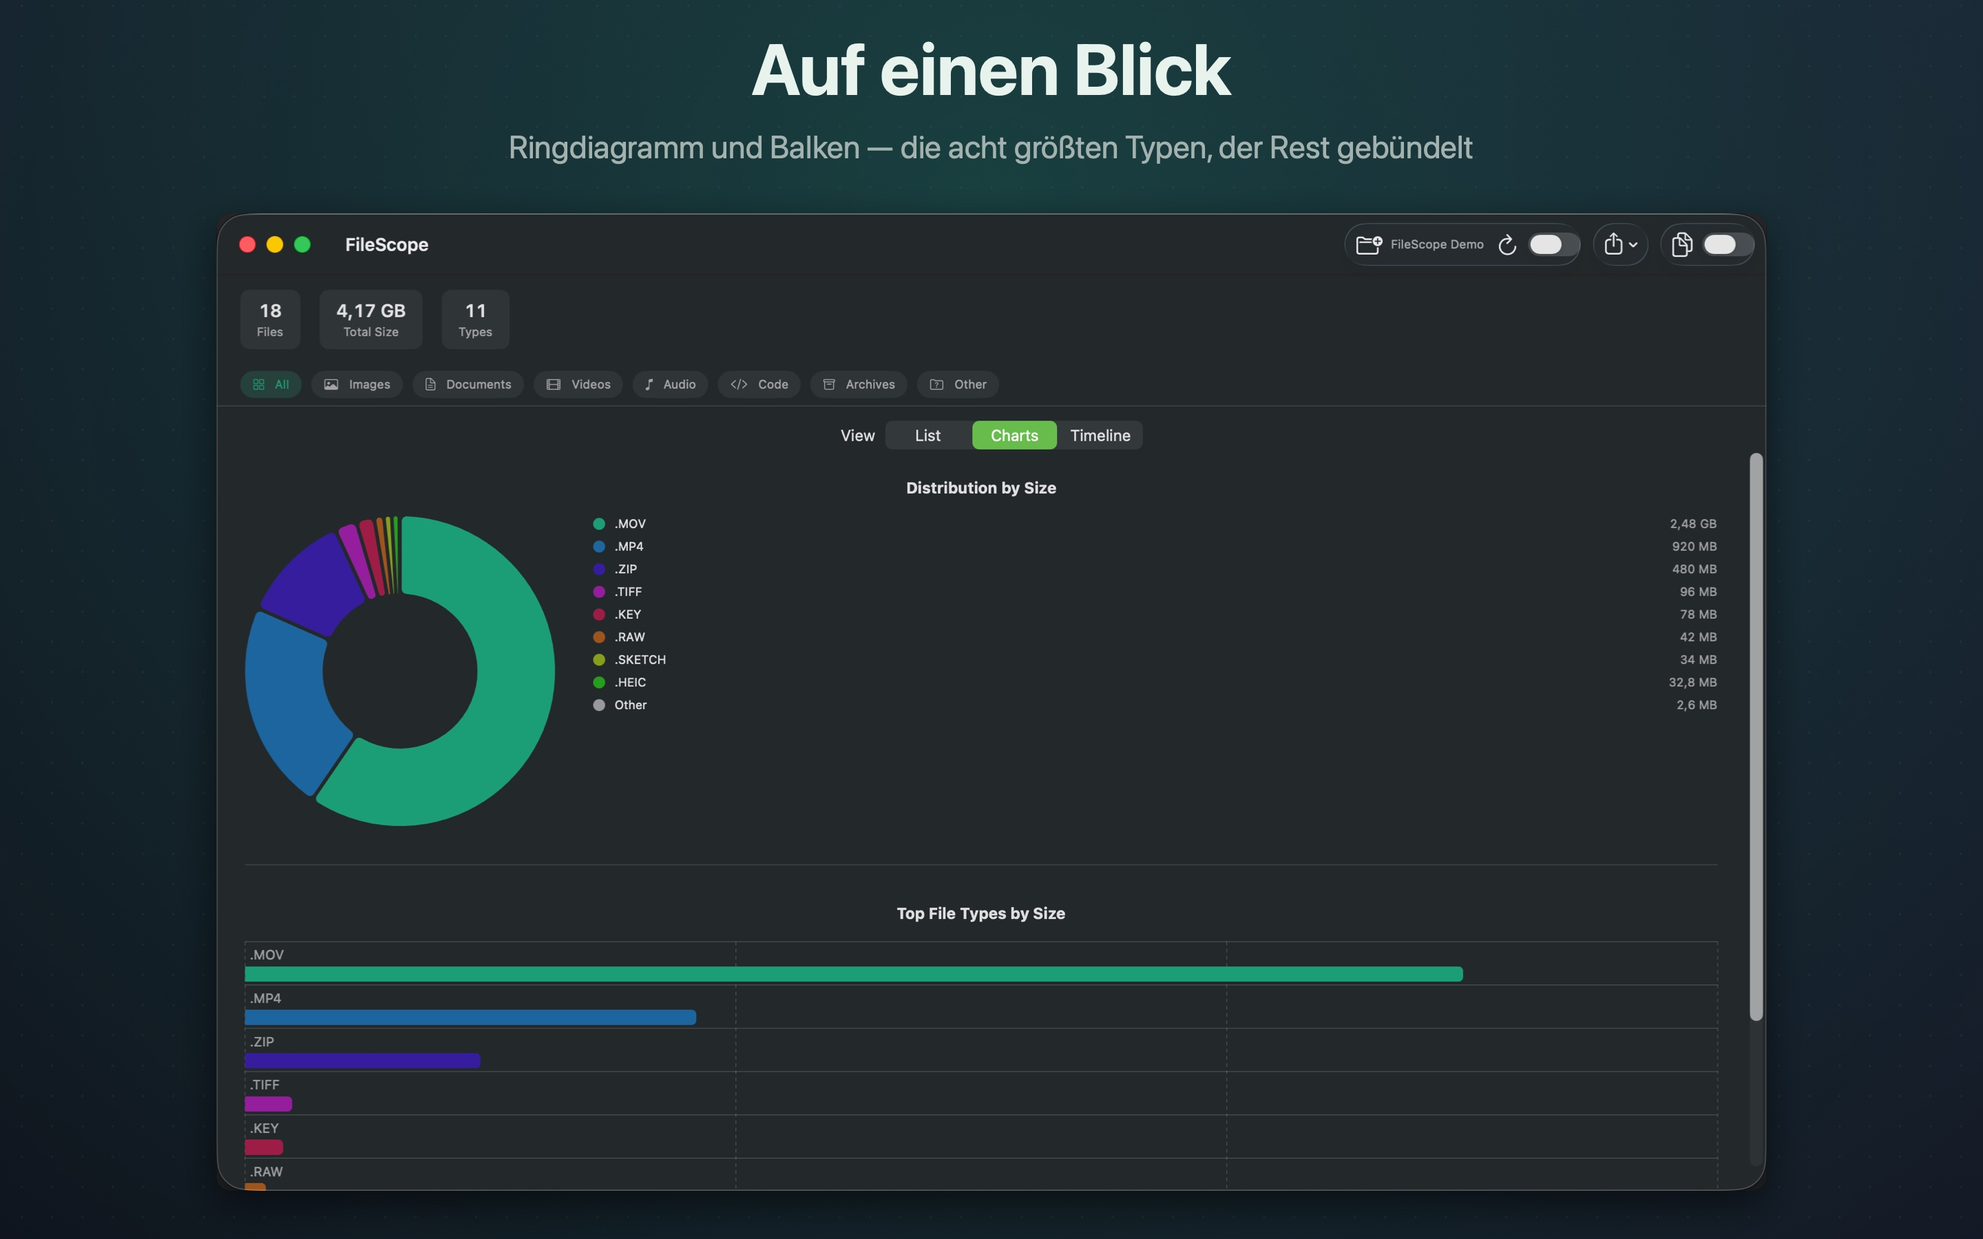
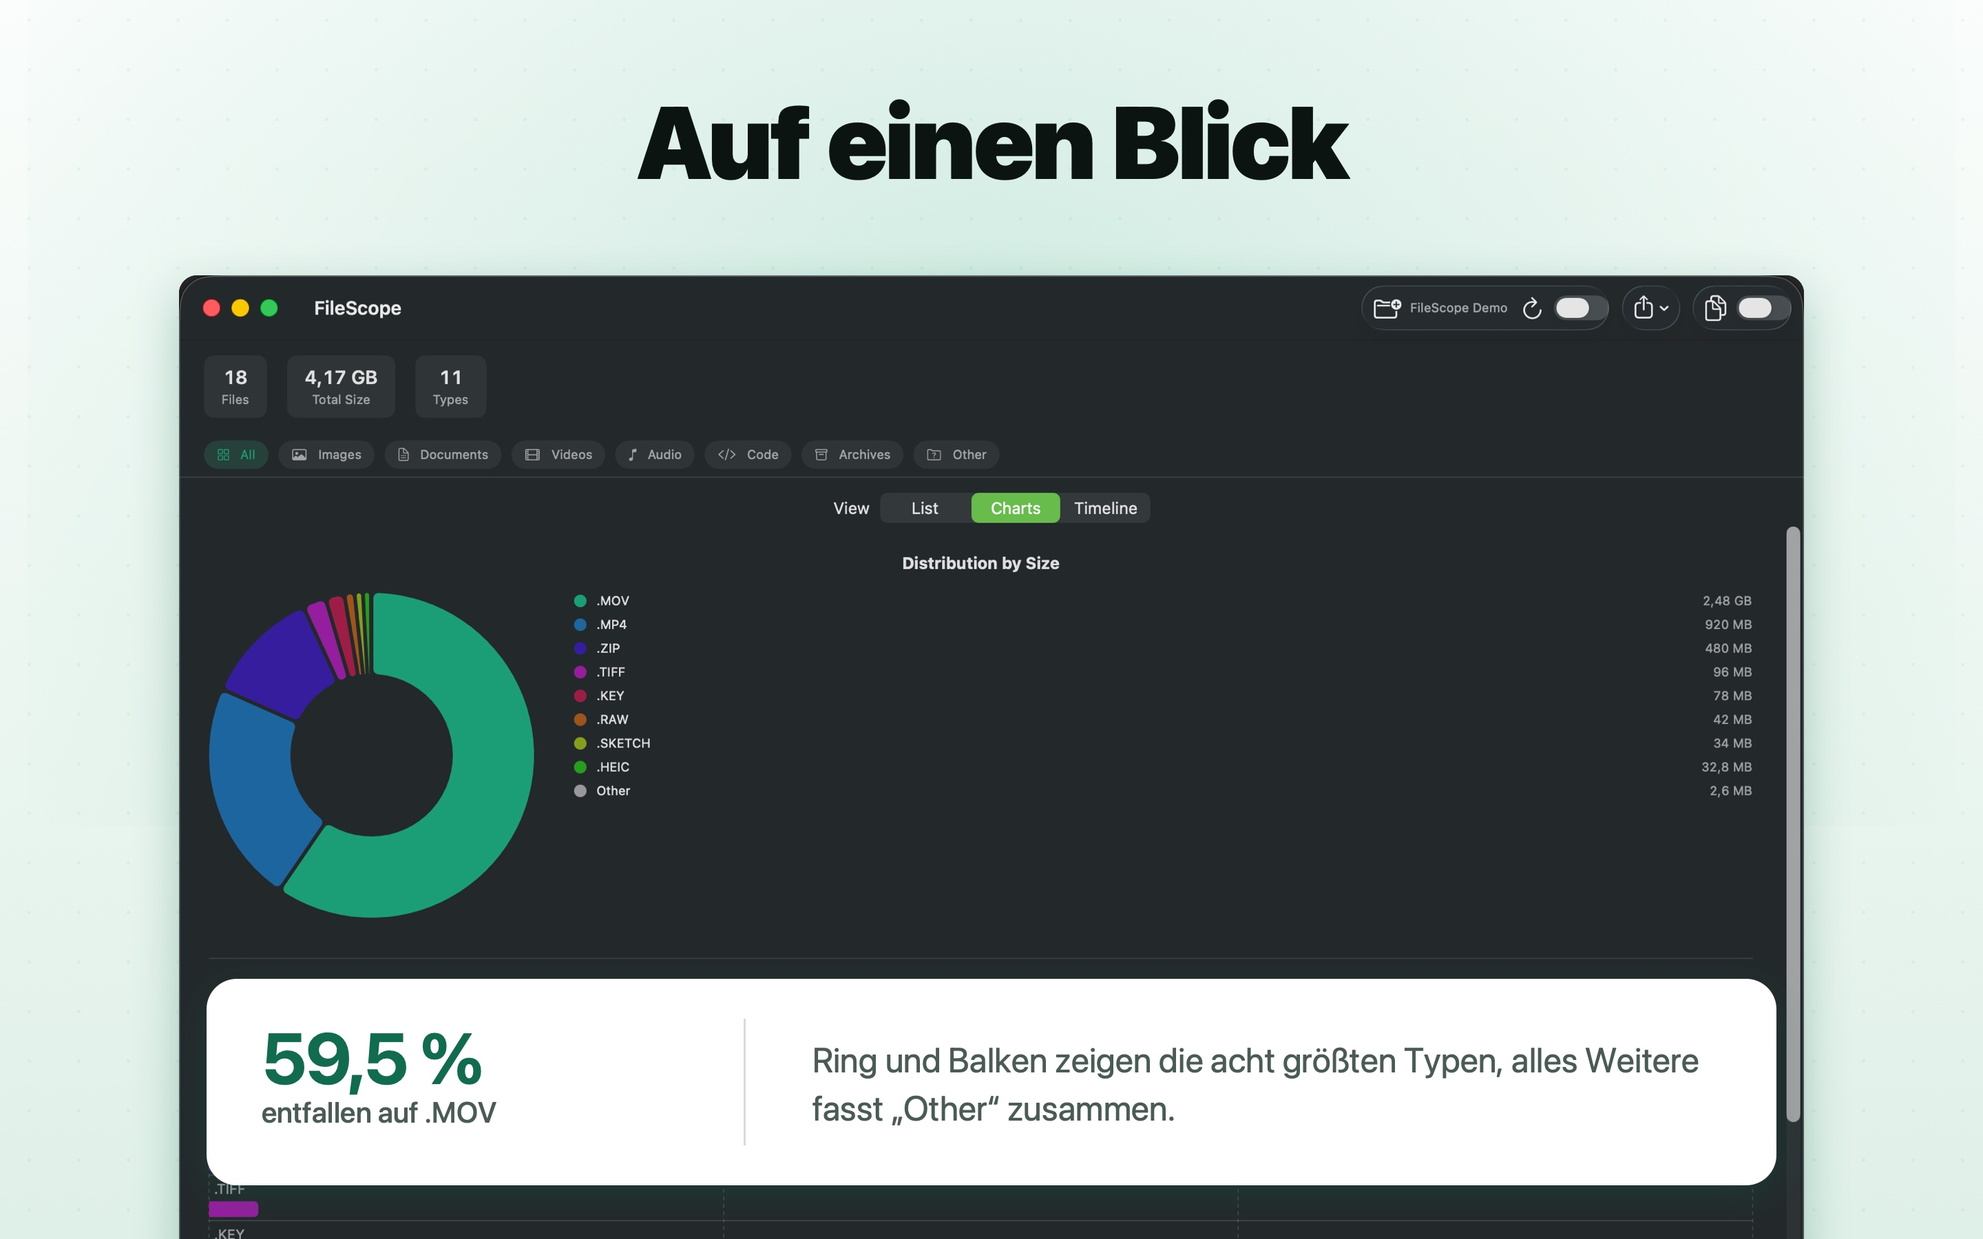
Rebuild the store screenshots in the layout the reference uses
The reference the design was compared against does three things: a light ground, a
headline large enough to read in the second before scrolling on, and the window pushed
off the bottom edge with one UI figure lifted in front of it. Copied that structure.

What changed concretely: dark canvas → light with a hint of the brand colour, headline
grown to 148pt black, subline moved off the background and into a card that overlaps the
window, and the window itself enlarged past the bottom edge instead of floating inside
the frame with air around it.

The card carries the number that is actually on screen behind it — 4,17 GB, 59,5 %,
8,6 MB. Read off each capture, not invented. Changing the demo folder means changing
them in the script.

Two fixes along the way:

5-videos.png was a byte-for-byte copy of 4-duplikate.png. The category filter was never
captured, so the fifth slide showed the duplicate sheet twice — and that went out in
PR #5. Recaptured against a rebuilt demo folder: 3 files, 3,4 GB, 2 types.

The timeline slide had the card sitting on top of the histogram. A single-line headline
lifts the window ~140px and the bars now clear it, axis labels included.

diff --git a/scripts/GenerateStoreScreenshots.swift b/scripts/GenerateStoreScreenshots.swift
@@ -4,49 +4,66 @@
 //
 // Aufruf: swift scripts/GenerateStoreScreenshots.swift <ordner-mit-rohaufnahmen>
 //
-// Erwartet dort 1-liste.png … 5-videos.png, wie sie
-// scripts/capture-store-screenshots.sh erzeugt.
+// Erwartet dort 1-liste.png … 5-videos.png.
 //
-// Warum gestaltet und nicht nackt: Ein Store-Eintrag hat wenige Sekunden. Eine
-// Fensteraufnahme allein erklärt nichts — die Überschrift sagt, was man sieht,
-// bevor jemand die Zahlen liest.
+// Aufbau je Bild, von oben nach unten:
+//   1. sehr große fette Überschrift — die eine Aussage, in zwei Sekunden lesbar
+//   2. das Fenster, groß und unten angeschnitten, damit es nicht wie ein
+//      abgelegtes Foto wirkt, sondern wie ein Ausschnitt aus etwas Größerem
+//   3. eine Karte davor mit der Kennzahl, die im Fenster steht — sie fängt den
+//      Blick, bevor jemand die Tabelle liest
+//
+// Heller Grund mit einem Hauch der Markenfarbe: Die App zeigt sich im dunklen
+// Erscheinungsbild, und der Kontrast dazu trägt das Fenster.
 
 import AppKit
 
 let canvas = NSSize(width: 2880, height: 1800)
 
 // Mika+ Palette — Spiegel von Sources/MikaPlusColors.swift
-let darkBgDeep = NSColor(srgbRed: 0x0F/255.0, green: 0x0F/255.0, blue: 0x1A/255.0, alpha: 1)
-let darkBg     = NSColor(srgbRed: 0x1A/255.0, green: 0x1A/255.0, blue: 0x2E/255.0, alpha: 1)
-let teal       = NSColor(srgbRed: 0x1D/255.0, green: 0x9E/255.0, blue: 0x75/255.0, alpha: 1)
-let tealLight  = NSColor(srgbRed: 0x5D/255.0, green: 0xCA/255.0, blue: 0xA5/255.0, alpha: 1)
-let textPrim   = NSColor(srgbRed: 0xE8/255.0, green: 0xF3/255.0, blue: 0xEE/255.0, alpha: 1)
-let textMuted  = NSColor(srgbRed: 0xA3/255.0, green: 0xB2/255.0, blue: 0xAE/255.0, alpha: 1)
+let teal      = NSColor(srgbRed: 0x1D/255.0, green: 0x9E/255.0, blue: 0x75/255.0, alpha: 1)
+let tealTief  = NSColor(srgbRed: 0x11/255.0, green: 0x6B/255.0, blue: 0x4E/255.0, alpha: 1)
+let grundOben = NSColor(srgbRed: 0xFA/255.0, green: 0xFD/255.0, blue: 0xFB/255.0, alpha: 1)
+let grundUnten = NSColor(srgbRed: 0xDF/255.0, green: 0xF0/255.0, blue: 0xE8/255.0, alpha: 1)
+let tinte     = NSColor(srgbRed: 0x0B/255.0, green: 0x14/255.0, blue: 0x11/255.0, alpha: 1)
+let tinteMatt = NSColor(srgbRed: 0x4A/255.0, green: 0x5B/255.0, blue: 0x55/255.0, alpha: 1)
 
 struct Folie {
     let datei: String
-    let titel: String
-    let unterzeile: String
+    let titel: String       // die Aussage, groß und fett
+    let zahl: String        // die Kennzahl aus genau diesem Screenshot
+    let label: String       // was die Zahl bedeutet
+    let satz: String        // ein Satz Erklärung neben der Zahl
 }
 
-// Die Reihenfolge ist die im Store: erst die Frage, die das Produkt beantwortet,
-// dann die Bilder, dann das Kaufargument.
+// Reihenfolge im Store: erst die Frage, die das Produkt beantwortet, dann was es
+// zeigt, zuletzt das Argument zum Aufräumen.
 let folien = [
     Folie(datei: "1-liste",
-          titel: "Wo ist der Platz geblieben?",
-          unterzeile: "Jede Dateiendung mit Anzahl, Größe und Anteil am Ganzen"),
+          titel: "Wo ist der Platz\ngeblieben?",
+          zahl: "4,17 GB",
+          label: "in 18 Dateien",
+          satz: "Jede Dateiendung mit Anzahl, Größe und Anteil am Ganzen — sortierbar nach jeder Spalte."),
     Folie(datei: "2-diagramme",
           titel: "Auf einen Blick",
-          unterzeile: "Ringdiagramm und Balken — die acht größten Typen, der Rest gebündelt"),
+          zahl: "59,5 %",
+          label: "entfallen auf .MOV",
+          satz: "Ring und Balken zeigen die acht größten Typen, alles Weitere fasst „Other“ zusammen."),
     Folie(datei: "3-zeitachse",
-          titel: "Was liegt hier nur herum?",
-          unterzeile: "Verteilung nach Alter — getrennt nach Anzahl und nach Volumen"),
+          titel: "Was hier nur herumliegt",
+          zahl: "6",
+          label: "Altersstufen",
+          satz: "Von heute bis älter als ein Jahr — nach Anzahl und nach belegtem Platz getrennt."),
     Folie(datei: "4-duplikate",
           titel: "Doppelt gespeichert",
-          unterzeile: "SHA-256 findet, was wirklich gleich ist. Gelöscht wird nichts."),
+          zahl: "8,6 MB",
+          label: "wiedergewinnbar",
+          satz: "SHA-256 findet, was wirklich gleich ist. Gelöscht wird nichts — das bleibt Ihre Sache."),
     Folie(datei: "5-videos",
           titel: "Nur das, was zählt",
-          unterzeile: "Sieben Kategorien — Tabelle, Diagramme und Export folgen der Auswahl"),
+          zahl: "3,4 GB",
+          label: "in 3 Videodateien",
+          satz: "Sieben Kategorien engen die Ansicht ein — Tabelle, Diagramme und Export folgen mit."),
 ]
 
 let args = CommandLine.arguments
@@ -59,20 +76,37 @@ let projekt = FileManager.default.currentDirectoryPath
 let ziel = "\(projekt)/store/screenshots"
 try? FileManager.default.createDirectory(atPath: ziel, withIntermediateDirectories: true)
 
-func schrift(_ groesse: CGFloat, _ gewicht: NSFont.Weight) -> NSFont {
-    NSFont.systemFont(ofSize: groesse, weight: gewicht)
+/// Zeichnet Text in eine Box fester Breite und meldet die belegte Höhe zurück.
+/// `obenBei` ist die Oberkante — bei AppKit-Koordinaten muss von dort nach unten
+/// gerechnet werden, sonst hängt mehrzeiliger Text am falschen Ende fest.
+@discardableResult
+func zeichne(_ text: String, schrift: NSFont, farbe: NSColor,
+             breite: CGFloat, x: CGFloat, obenBei y: CGFloat,
+             zeilen: CGFloat = 1.0, ausrichtung: NSTextAlignment = .center,
+             kerning: CGFloat = 0) -> CGFloat {
+    let stil = NSMutableParagraphStyle()
+    stil.alignment = ausrichtung
+    stil.lineHeightMultiple = zeilen
+    let s = NSAttributedString(string: text, attributes: [
+        .font: schrift, .foregroundColor: farbe,
+        .paragraphStyle: stil, .kern: kerning,
+    ])
+    let mass = s.boundingRect(with: NSSize(width: breite, height: .greatestFiniteMagnitude),
+                              options: [.usesLineFragmentOrigin])
+    s.draw(with: NSRect(x: x, y: y - mass.height, width: breite, height: mass.height),
+           options: [.usesLineFragmentOrigin])
+    return mass.height
 }
 
 for folie in folien {
     let pfad = "\(quelle)/\(folie.datei).png"
     guard let aufnahme = NSImage(contentsOfFile: pfad) else {
-        print("  ! fehlt: \(pfad)")
+        print("  ✗ fehlt: \(pfad)")
         continue
     }
 
-    // In eine Bitmap mit festen Pixelmaßen zeichnen, nicht über NSImage.lockFocus():
-    // Auf einem Retina-Bildschirm verdoppelt lockFocus die Auflösung, und aus 2880×1800
-    // werden 5760×3600. Der Store lehnt solche Bilder ab.
+    // Feste Pixelmaße statt NSImage.lockFocus(): Letzteres verdoppelt auf einem
+    // Retina-Display die Auflösung, und der Store weist 5760×3600 zurück.
     guard let rep = NSBitmapImageRep(
         bitmapDataPlanes: nil,
         pixelsWide: Int(canvas.width), pixelsHigh: Int(canvas.height),
@@ -84,86 +118,114 @@ for folie in folien {
     NSGraphicsContext.saveGraphicsState()
     NSGraphicsContext.current = NSGraphicsContext(bitmapImageRep: rep)
 
-    // Hintergrund: derselbe Verlauf wie auf der Website und im OG-Bild
-    NSGradient(starting: darkBgDeep, ending: darkBg)!
-        .draw(in: NSRect(origin: .zero, size: canvas), angle: 65)
+    let alles = NSRect(origin: .zero, size: canvas)
 
-    // Teal-Schein hinter der Überschrift. Der Verlauf reicht weit über den Rand
-    // hinaus, damit seine eigene Kante nie als Naht sichtbar wird.
-    let schein = NSGradient(colors: [teal.withAlphaComponent(0.30), teal.withAlphaComponent(0)])!
-    let scheinGroesse: CGFloat = 3400
-    schein.draw(in: NSRect(x: canvas.width/2 - scheinGroesse/2,
-                           y: canvas.height - 300 - scheinGroesse/2,
-                           width: scheinGroesse, height: scheinGroesse),
-                relativeCenterPosition: .zero)
+    // --- Grund ------------------------------------------------------------
+    NSGradient(colors: [grundOben, grundUnten])?.draw(in: alles, angle: -90)
 
-    // Punktraster, wie im App-Symbol
-    tealLight.withAlphaComponent(0.07).setFill()
-    for x in stride(from: 30.0, to: canvas.width, by: 44) {
-        for y in stride(from: 30.0, to: canvas.height, by: 44) {
-            NSBezierPath(ovalIn: NSRect(x: x, y: y, width: 3.5, height: 3.5)).fill()
+    // Ein weicher Schein in Markenfarbe hinter der Überschrift, damit die obere
+    // Bildhälfte nicht leer wirkt.
+    NSGraphicsContext.current?.saveGraphicsState()
+    let schein = NSGradient(colors: [teal.withAlphaComponent(0.16), teal.withAlphaComponent(0)])
+    schein?.draw(in: NSRect(x: canvas.width/2 - 1400, y: canvas.height - 1200,
+                            width: 2800, height: 1400), relativeCenterPosition: .zero)
+    NSGraphicsContext.current?.restoreGraphicsState()
+
+    // Feines Punktraster, sehr blass — gibt der Fläche Struktur ohne Ablenkung.
+    teal.withAlphaComponent(0.07).setFill()
+    var py: CGFloat = 40
+    while py < canvas.height {
+        var px: CGFloat = 40
+        while px < canvas.width {
+            NSBezierPath(ovalIn: NSRect(x: px, y: py, width: 5, height: 5)).fill()
+            px += 72
         }
+        py += 72
     }
 
-    // Überschrift
-    let titelAttr: [NSAttributedString.Key: Any] = [
-        .font: schrift(104, .bold),
-        .foregroundColor: textPrim,
-    ]
-    let titelGroesse = folie.titel.size(withAttributes: titelAttr)
-    folie.titel.draw(at: NSPoint(x: (canvas.width - titelGroesse.width)/2, y: canvas.height - 160),
-                     withAttributes: titelAttr)
+    // --- Überschrift ------------------------------------------------------
+    let titelOben = canvas.height - 130
+    let titelHoehe = zeichne(folie.titel,
+            schrift: .systemFont(ofSize: 148, weight: .black), farbe: tinte,
+            breite: 2400, x: canvas.width/2 - 1200, obenBei: titelOben,
+            zeilen: 0.92, kerning: -3)
 
-    // Unterzeile
-    let unterAttr: [NSAttributedString.Key: Any] = [
-        .font: schrift(46, .regular),
-        .foregroundColor: textMuted,
-    ]
-    let unterGroesse = folie.unterzeile.size(withAttributes: unterAttr)
-    folie.unterzeile.draw(at: NSPoint(x: (canvas.width - unterGroesse.width)/2, y: canvas.height - 240),
-                          withAttributes: unterAttr)
+    // --- Fenster ----------------------------------------------------------
+    // Unten angeschnitten: Das Bild endet nicht mit dem Fenster, es geht weiter.
+    let quellMass = aufnahme.size
+    let fensterBreite: CGFloat = 2360
+    let fensterHoehe = fensterBreite * quellMass.height / quellMass.width
+    // Direkt unter der Überschrift ansetzen: Eine dreizeilige Zeile schiebt das
+    // Fenster nach unten, eine einzeilige zieht es hoch — der Abstand bleibt gleich.
+    let fensterOben = titelOben - titelHoehe - 110
+    let fenster = NSRect(x: (canvas.width - fensterBreite)/2,
+                         y: fensterOben - fensterHoehe,
+                         width: fensterBreite, height: fensterHoehe)
+    let rahmen = NSBezierPath(roundedRect: fenster, xRadius: 26, yRadius: 26)
 
-    // Die Fensteraufnahme: proportional einpassen, zentriert, unten bündig
-    // Die Breite folgt aus der Höhe, die nach Überschrift und Unterzeile übrig
-    // bleibt: rund 300 px oben, 70 px Luft unten. Vorher war das Fenster so hoch,
-    // dass es die Unterzeile verdeckte.
-    let maxHoehe: CGFloat = 1420
-    let maxBreite: CGFloat = min(2400, aufnahme.size.width * (maxHoehe / aufnahme.size.height))
-    let skala = maxBreite / aufnahme.size.width
-    let bildGroesse = NSSize(width: maxBreite, height: aufnahme.size.height * skala)
-    let bildRahmen = NSRect(x: (canvas.width - bildGroesse.width)/2,
-                            y: 70,
-                            width: bildGroesse.width, height: bildGroesse.height)
+    NSGraphicsContext.current?.saveGraphicsState()
+    let fensterSchatten = NSShadow()
+    fensterSchatten.shadowColor = tealTief.withAlphaComponent(0.30)
+    fensterSchatten.shadowBlurRadius = 70
+    fensterSchatten.shadowOffset = NSSize(width: 0, height: -24)
+    fensterSchatten.set()
+    NSColor.black.setFill()
+    rahmen.fill()
+    NSGraphicsContext.current?.restoreGraphicsState()
 
-    // Schatten, damit das Fenster auf dem Verlauf steht statt darin zu schwimmen
-    NSGraphicsContext.saveGraphicsState()
-    let schatten = NSShadow()
-    schatten.shadowColor = NSColor.black.withAlphaComponent(0.55)
-    schatten.shadowBlurRadius = 60
-    schatten.shadowOffset = NSSize(width: 0, height: -18)
-    schatten.set()
-    let ecken = NSBezierPath(roundedRect: bildRahmen, xRadius: 22, yRadius: 22)
-    darkBgDeep.setFill()
-    ecken.fill()
+    NSGraphicsContext.current?.saveGraphicsState()
+    rahmen.addClip()
+    aufnahme.draw(in: fenster, from: .zero, operation: .sourceOver, fraction: 1)
+    NSGraphicsContext.current?.restoreGraphicsState()
+
+    // --- Kennzahlkarte ----------------------------------------------------
+    // Liegt vor dem Fenster und überlappt es. Sie trägt die Zahl, die im
+    // Screenshot steht — nichts Erfundenes.
+    let karte = NSRect(x: 300, y: 78, width: canvas.width - 600, height: 300)
+    let karteRahmen = NSBezierPath(roundedRect: karte, xRadius: 44, yRadius: 44)
+
+    NSGraphicsContext.current?.saveGraphicsState()
+    let karteSchatten = NSShadow()
+    karteSchatten.shadowColor = tealTief.withAlphaComponent(0.26)
+    karteSchatten.shadowBlurRadius = 56
+    karteSchatten.shadowOffset = NSSize(width: 0, height: -14)
+    karteSchatten.set()
+    NSColor.white.setFill()
+    karteRahmen.fill()
+    NSGraphicsContext.current?.restoreGraphicsState()
+
+    // Zahl links, Erklärung rechts, dazwischen ein Trennstrich.
+    zeichne(folie.zahl,
+            schrift: .systemFont(ofSize: 104, weight: .bold), farbe: tealTief,
+            breite: 620, x: karte.minX + 80, obenBei: karte.maxY - 52,
+            ausrichtung: .left, kerning: -2)
+    zeichne(folie.label,
+            schrift: .systemFont(ofSize: 42, weight: .medium), farbe: tinteMatt,
+            breite: 620, x: karte.minX + 80, obenBei: karte.maxY - 168,
+            ausrichtung: .left)
+
+    tinteMatt.withAlphaComponent(0.22).setFill()
+    NSBezierPath(rect: NSRect(x: karte.minX + 780, y: karte.minY + 58,
+                              width: 3, height: karte.height - 116)).fill()
+
+    let satzBreite = karte.maxX - (karte.minX + 880) - 80
+    let satzHoehe = NSAttributedString(string: folie.satz, attributes: [
+        .font: NSFont.systemFont(ofSize: 50, weight: .regular),
+    ]).boundingRect(with: NSSize(width: satzBreite, height: .greatestFiniteMagnitude),
+                    options: [.usesLineFragmentOrigin]).height
+    zeichne(folie.satz,
+            schrift: .systemFont(ofSize: 50, weight: .regular), farbe: tinteMatt,
+            breite: satzBreite, x: karte.minX + 880,
+            obenBei: karte.midY + satzHoehe/2 + 14,
+            zeilen: 1.18, ausrichtung: .left)
+
     NSGraphicsContext.restoreGraphicsState()
 
-    // Auf die abgerundeten Ecken beschneiden
-    NSGraphicsContext.saveGraphicsState()
-    ecken.addClip()
-    aufnahme.draw(in: bildRahmen, from: .zero, operation: .sourceOver, fraction: 1)
-    NSGraphicsContext.restoreGraphicsState()
-
-    NSGraphicsContext.restoreGraphicsState()
-
-    // Als JPEG sichern: der Store nimmt keinen Alpha-Kanal, und JPEG hat keinen.
-    guard let daten = rep.representation(using: .jpeg, properties: [.compressionFactor: 0.92])
-    else {
-        print("  ! konnte \(folie.datei) nicht sichern")
+    guard let jpeg = rep.representation(using: .jpeg, properties: [.compressionFactor: 0.92]) else {
+        print("  ✗ Kodierung fehlgeschlagen: \(folie.datei)")
         continue
     }
-    let ausgabe = "\(ziel)/\(folie.datei).jpg"
-    try? daten.write(to: URL(fileURLWithPath: ausgabe))
-    print("  ✓ \(folie.datei).jpg — \(folie.titel)")
+    let zielPfad = "\(ziel)/\(folie.datei).jpg"
+    try? jpeg.write(to: URL(fileURLWithPath: zielPfad))
+    print("  ✓ \(folie.datei).jpg — \(jpeg.count / 1024) KB")
 }
-
-print("\nFertig: \(ziel)")

diff --git a/store/metadata.md b/store/metadata.md
@@ -133,17 +133,23 @@ Quelltext — `grep -rn "URLSession" Sources/` liefert nichts.
 ## Screenshots
 
 In `store/screenshots/`, alle 2880×1800, JPEG ohne Alpha-Kanal. Sie sind gestaltet,
-nicht nur abfotografiert: Überschrift, Unterzeile, Markenverlauf und Punktraster wie im
-OG-Bild der Website. Erzeugt mit `swift scripts/GenerateStoreScreenshots.swift <ordner>`
-— die Texte stehen im Skript und lassen sich dort ändern.
+nicht nur abfotografiert. Jedes Bild hat denselben Aufbau: heller Grund mit einem Hauch
+der Markenfarbe, darüber eine sehr große Überschrift, darunter das Fenster — groß und
+unten angeschnitten — und davor eine Karte mit der Kennzahl, die im Fenster steht.
 
-| Datei | Zeigt |
-|---|---|
-| `1-liste.jpg` | „Wo ist der Platz geblieben?" — Aufschlüsselung nach Dateityp |
-| `2-diagramme.jpg` | „Auf einen Blick" — Ring- und Balkendiagramm |
-| `3-zeitachse.jpg` | „Was liegt hier nur herum?" — Altersverteilung |
-| `4-duplikate.jpg` | „Doppelt gespeichert" — Duplikatsuche |
-| `5-videos.jpg` | „Nur das, was zählt" — Kategoriefilter |
+Die Kennzahlen sind aus der jeweiligen Aufnahme abgelesen, nicht ausgedacht. Wer den
+Demo-Ordner ändert, muss sie im Skript nachziehen.
+
+| Datei | Überschrift | Kennzahl |
+|---|---|---|
+| `1-liste.jpg` | Wo ist der Platz geblieben? | 4,17 GB in 18 Dateien |
+| `2-diagramme.jpg` | Auf einen Blick | 59,5 % entfallen auf .MOV |
+| `3-zeitachse.jpg` | Was hier nur herumliegt | 6 Altersstufen |
+| `4-duplikate.jpg` | Doppelt gespeichert | 8,6 MB wiedergewinnbar |
+| `5-videos.jpg` | Nur das, was zählt | 3,4 GB in 3 Videodateien |
+
+Erzeugt mit `swift scripts/GenerateStoreScreenshots.swift <ordner-mit-rohaufnahmen>`;
+Überschriften und Kennzahlen stehen oben im Skript.
 
 Neu erzeugen lassen sie sich mit `bash scripts/make-demo-folder.sh` — der Ordner, der
 darauf zu sehen ist, entsteht dabei identisch. Wichtig, damit die Aufnahmen bei der
